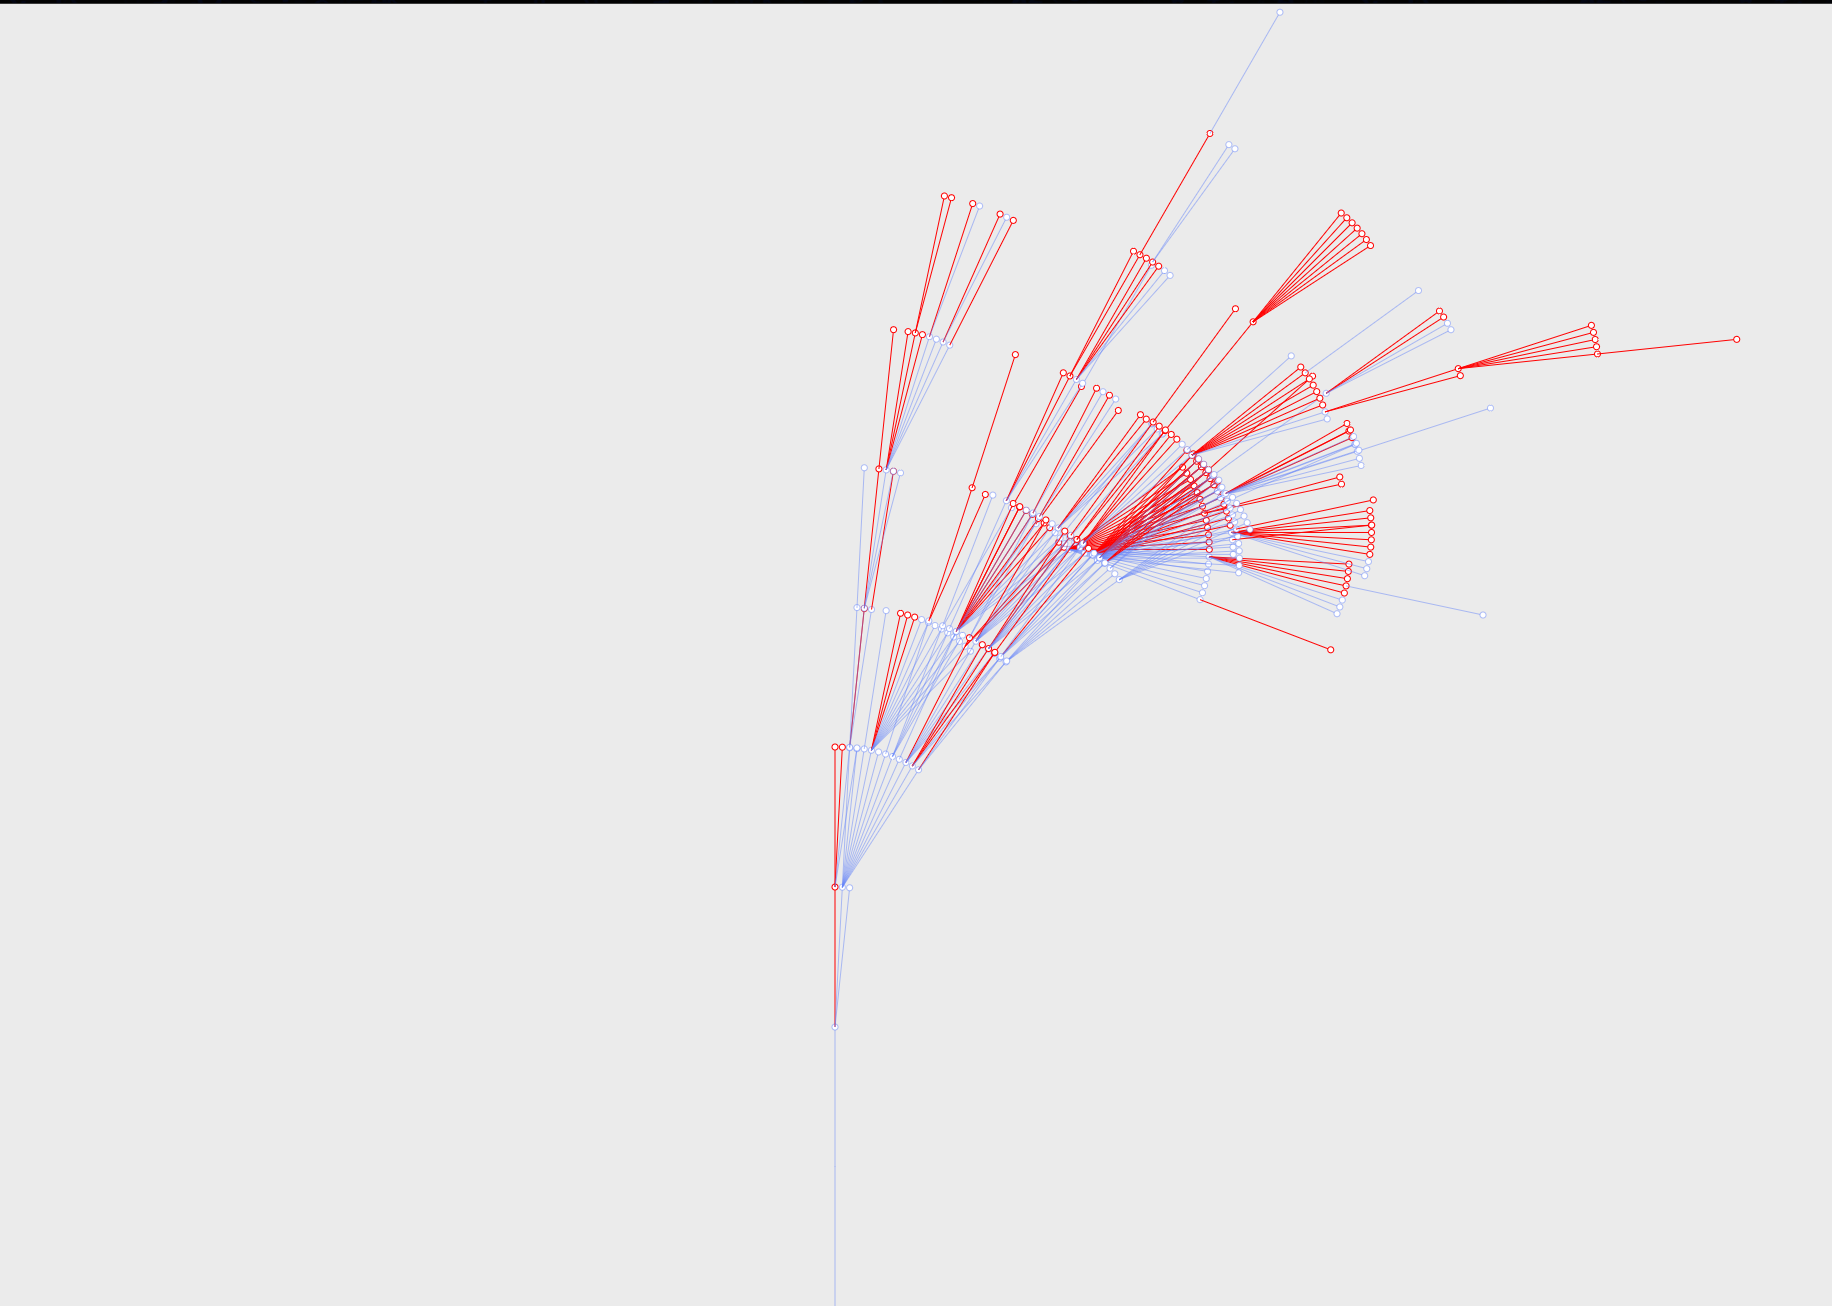
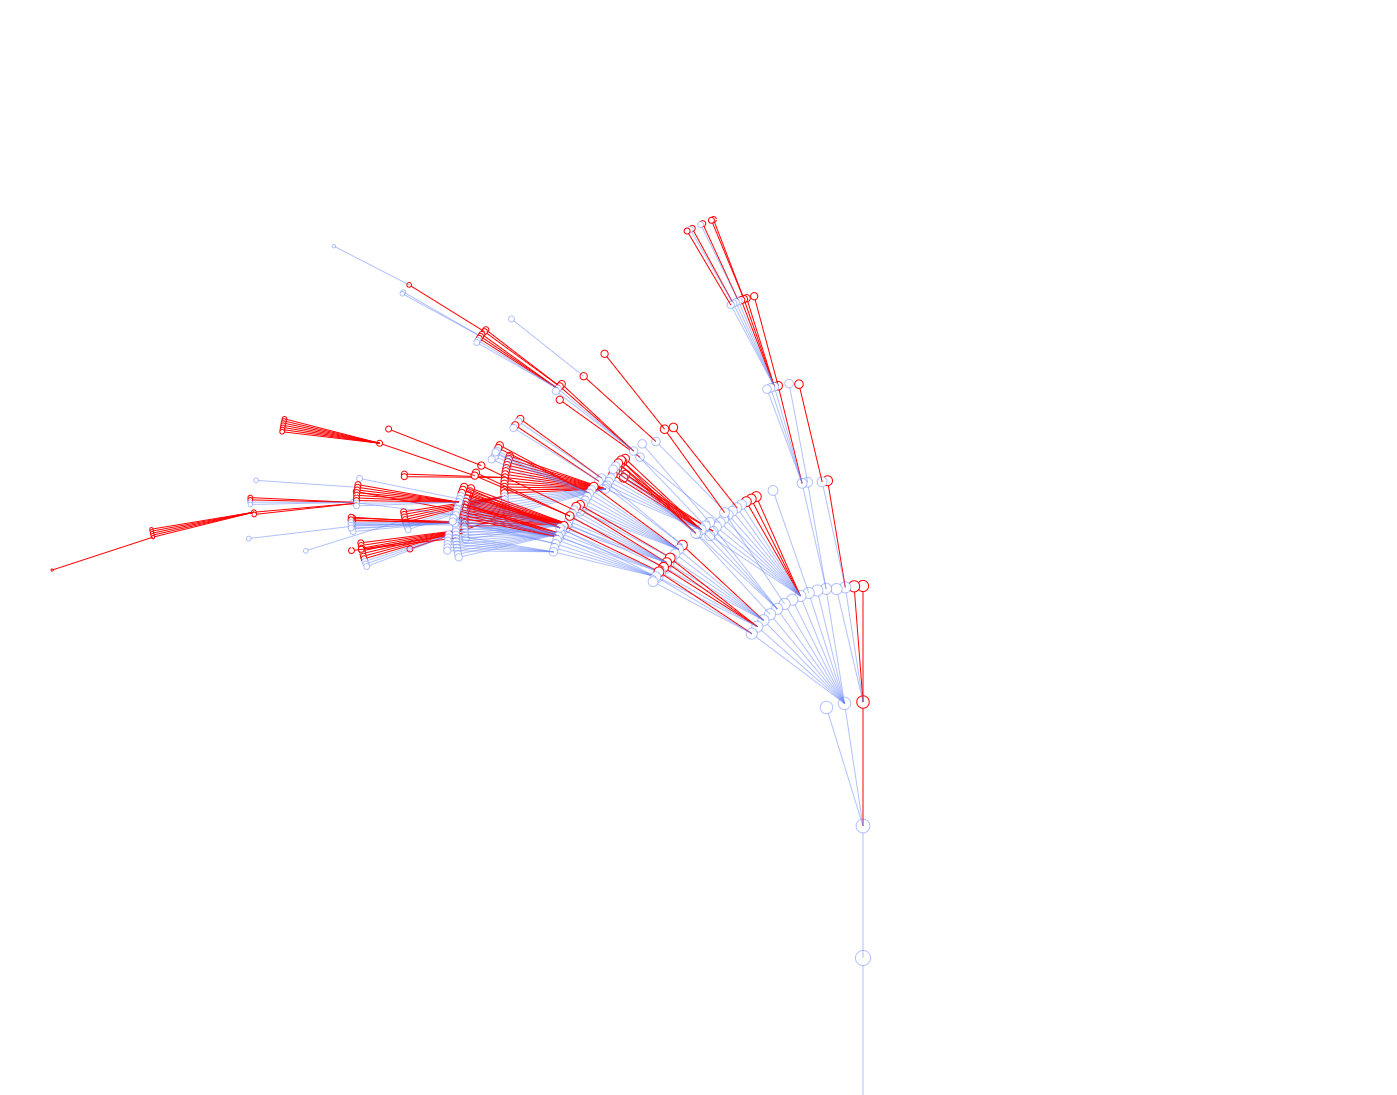
added new photo

diff --git a/tree/tree.js b/tree/tree.js
@@ -88,16 +88,27 @@ function buildTree(children, begin, end, circleSize, angle) {
         const newEnd = createVector(end.x, end.y + 8);
         const fraction = PI / (branchNum + 1);
         stroke(children[i].gender_color);
-        // if (children[i].gender === 'man') {
-        //     newEnd.rotate((i + 1) * -PI / 60);
-        // } else if (children[i].gender === 'woman') {
-        //     newEnd.rotate((i + 1) * PI / 30);
-        // }
+
+        //Weighted, M->L, W->R
+        if (children[i].gender === 'man') {
+            newEnd.rotate((i + 1) * -PI / 60);
+        } else if (children[i].gender === 'woman') {
+            newEnd.rotate((i + 1) * PI /30);
+            //Weighted
+            // newEnd.rotate((i + 1) * PI / angle + 0.4);
+        }
+
+        //Evenly
         // newEnd.rotate(-PI / 2 + (i + 1) * fraction);
-        newEnd.rotate(i * -PI / angle);
+
+        //Same Direction
+        // newEnd.rotate(i * -PI / angle + 0.3);
+        //Weighted
+        // newEnd.rotate(i * -PI / angle);
+
         line(begin.x, begin.y, newEnd.x, newEnd.y);
         circle(newEnd.x, newEnd.y, circleSize - 1.3);
-        buildTree(children[i].children, begin, newEnd, circleSize - 1.3, angle + 15);
+        buildTree(children[i].children, begin, newEnd, circleSize - 1.3, angle + 20);
         translate(-end.x, -end.y);
     }
 

diff --git a/README.md b/README.md
@@ -1,14 +1,28 @@
 # Visulization
 ## Conferences
 
+![map](map.png)
+
 ![map](map-rotate.gif)
 
 ![map](map-rotate-1.gif)
 
+## Same direction
 ![tree](tree-1.png)
+**Weighted**
 
+![tree](tree-6.png)
+
+![tree](tree-7.png)
+
+## Man -> Left, Woman -> Right
 ![tree](tree-2.png)
 
-![tree](tree-3.png)
-
+**Dark**
 ![tree](tree-4.png)
+
+**Weighted**
+![tree](tree-5.png)
+
+## Distributed Evenly 
+![tree](tree-3.png)
